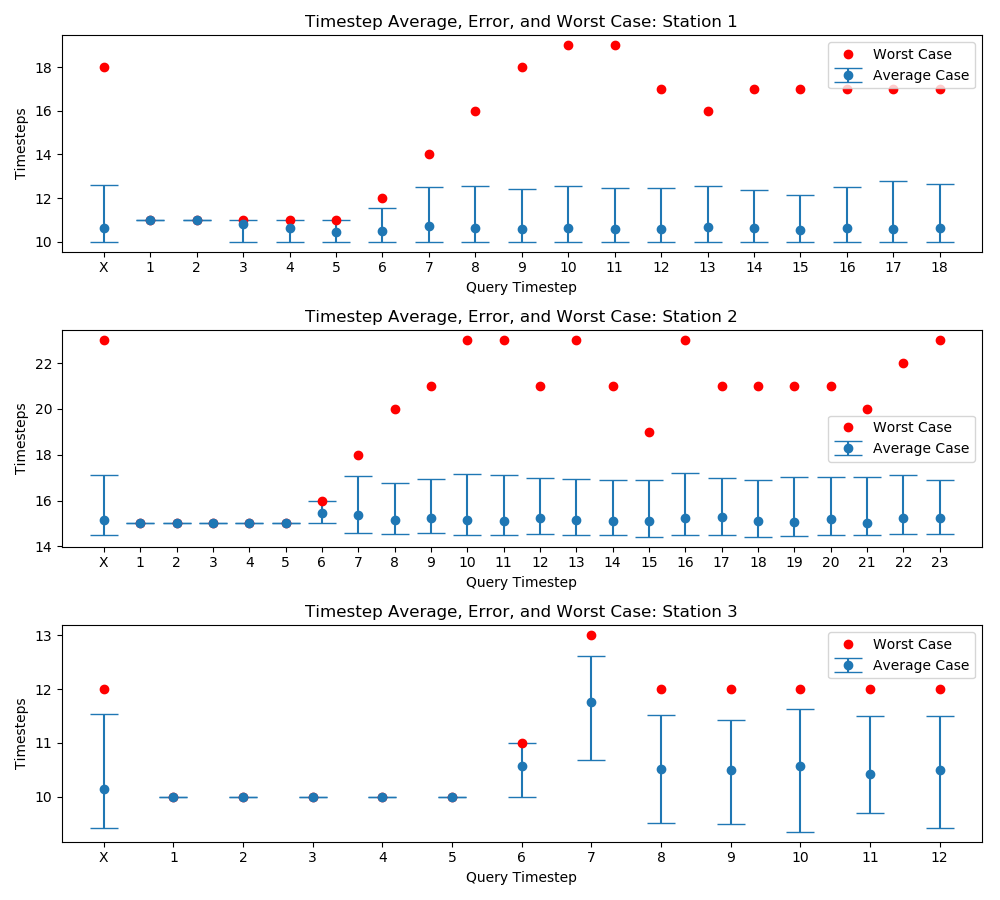
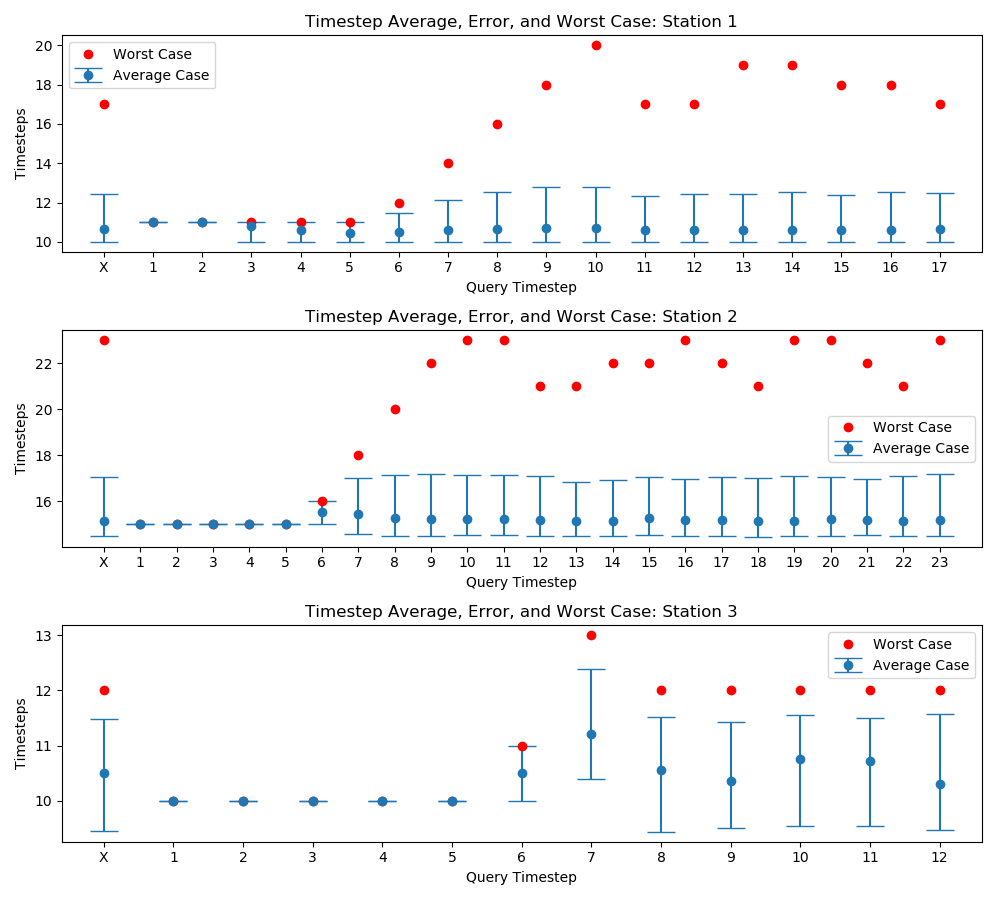
inference bug fix

diff --git a/experiment.py b/experiment.py
@@ -40,6 +40,7 @@ def experiment(grid_size, stn_pos, tools_pos, l_pos, a_pos, l_tp=None, l_path=[]
         print('Adhoc Tool:           ', adhoc.tool)
         print('Adhoc Station Order:  ', adhoc.knowledge.station_order)
         print('Adhoc Source:         ', adhoc.knowledge.source)
+        print('Adhoc Prior/Certainty:', adhoc.inference_engine.prior, adhoc.certainty)
         adhoc_station_status = [status.value for status in adhoc.knowledge.station_work_status]
         print('Adhoc Station Status: ', adhoc_station_status)
         print('\n')
@@ -121,7 +122,7 @@ def get_query_timesteps(grid_size, stn_pos, tools_pos, l_pos, a_pos, l_tp, all_l
 def create_graphs(grid_size, stn_pos_perm, stn_names, tools_pos, l_pos, a_pos, l_tp_perm, num_query=None):
     query_timesteps = []
     for stn_pos, l_tp in zip(stn_pos_perm, l_tp_perm):
-        all_leader_paths = opt_path_perm(stn_pos, l_pos, l_tp.station_order, 5)
+        all_leader_paths = opt_path_perm(stn_pos, l_pos, l_tp.station_order, 10)
         qt = get_query_timesteps(grid_size, stn_pos, tools_pos, l_pos, a_pos, l_tp, all_leader_paths, num_query)
         query_timesteps.append(qt)
 
@@ -204,7 +205,7 @@ stn_names = ['1', '2', '3']
 stn_pos_perm = [[Point2D(7,3), Point2D(7,8), Point2D(3,8)],
                 [Point2D(7,3), Point2D(3,8), Point2D(7,8)],
                 [Point2D(3,8), Point2D(7,8), Point2D(7,3)]]
-tools_pos = [Point2D(3,3)] # tools_pos needs to be an array but only one tool box is supported so far
+tools_pos = [Point2D(2,3)] # tools_pos needs to be an array but only one tool box is supported so far
 
 l_pos = Point2D(5, 0)
 # l_tp = agent.AgentType(len(stn_pos)) # Optional random order of stations to pass to agent_leader()
@@ -214,4 +215,5 @@ a_pos = Point2D(4, 0)
 
 create_graphs(grid_size, stn_pos_perm, stn_names, tools_pos, l_pos, a_pos, l_tp_perm)
 
-# experiment(grid_size, stn_pos_perm[0], tools_pos, l_pos, a_pos, l_tp_perm[0], [gd.Actions.LEFT], [3], debug=True)
+path = [gd.Actions.UP] * 3
+# experiment(grid_size, stn_pos_perm[2], tools_pos, l_pos, a_pos, l_tp_perm[0], path, [], debug=True)

diff --git a/src/agents/agent_adhoc_q.py b/src/agents/agent_adhoc_q.py
@@ -23,6 +23,7 @@ class agent_adhoc(AbstractAgent):
             logging.warning("Init positions out of bounds")
         self.is_adhoc=True
         self.tool = None #Start off with no tool.
+        self.current_target = None        
         self.knowledge = Knowledge()
         self.certainty = False # Set True if only one station has max likelihood. Lets environment know not to allow query.
         self.p_obs = None
@@ -64,10 +65,12 @@ class agent_adhoc(AbstractAgent):
             curr_k_idx = self.knowledge.get_current_job_station_idx()
             #Checking what knowledge we have.
             if (self.knowledge.source[curr_k_idx]==Knowledge.origin.Answer):
-
                 #Then we simply work on the station because we have an answer telling us that that's the station to work on.
                 target_station = self.knowledge.station_order[curr_k_idx]
-
+                #new_prior = np.zeros(self.inference_engine.prior.shape)
+                #new_prior[curr_k_idx]
+                #self.inference_engine.prior = 
+                #self.certainty = True
             elif (self.knowledge.source[curr_k_idx] == None):
                 #which means we just finished a station in the last time-step. This calls for re-initalizing the inference_engine
                 self.tracking_stations = self.get_remaining_stations(obs)

diff --git a/src/agents/adhoc_utils.py b/src/agents/adhoc_utils.py
@@ -29,6 +29,7 @@ class inference_engine():
         self.tracking_stations = copy.deepcopy(tracking_stations)
         self.prior = np.ones(len(self.tracking_stations))
         self.prior/=np.sum(self.prior)
+        self.current_target = None        
 
     def get_modified_obs(self,previous_obs,current_obs):
         """
@@ -98,17 +99,23 @@ class inference_engine():
         """
         mobs = self.get_modified_obs(pobs,cobs)
         ll = self.get_likelihood(mobs)
-        (map_idx,ps) = utils.get_MAP(self.prior,ll)
+        (rand_map_idx,ps) = utils.get_MAP(self.prior,ll)
         assert(np.all(ps.shape==ll.shape))
         self.prior = ps
         
-        maxes = np.where(ps == np.amax(ps))
+        maxes = np.where(ps == np.amax(ps))[0]
+
+        # This stops changing target when already chosen target is still possible (stops thrashing)
+        target_idx = self.current_target
+        if self.current_target not in maxes:
+            target_idx = rand_map_idx
+            self.current_target = rand_map_idx
         
         certainty = False
-        if len(maxes[0]) == 1:
+        if len(maxes) == 1:
             certainty = True
         
-        return self.tracking_stations[map_idx], certainty
+        return self.tracking_stations[target_idx], certainty
 
 
 

diff --git a/experiment2.py b/experiment2.py
@@ -187,7 +187,7 @@ stn_names = ['1', '2', '3']
 stn_pos_perm = [[Point2D(7,3), Point2D(7,8), Point2D(3,8)],
                 [Point2D(7,3), Point2D(3,8), Point2D(7,8)],
                 [Point2D(3,8), Point2D(7,8), Point2D(7,3)]]
-tools_pos = [Point2D(3,3)] # tools_pos needs to be an array but only one tool box is supported so far
+tools_pos = [Point2D(2,3)] # tools_pos needs to be an array but only one tool box is supported so far
 
 l_pos = Point2D(5, 0)
 # l_tp = agent.AgentType(len(stn_pos)) # Optional random order of stations to pass to agent_leader()

diff --git a/experiment3.py b/experiment3.py
@@ -192,7 +192,7 @@ stn_names = ['1', '2', '3']
 stn_pos_perm = [[Point2D(7,3), Point2D(7,8), Point2D(3,8)],
                 [Point2D(7,3), Point2D(3,8), Point2D(7,8)],
                 [Point2D(3,8), Point2D(7,8), Point2D(7,3)]]
-tools_pos = [Point2D(3,3)] # tools_pos needs to be an array but only one tool box is supported so far
+tools_pos = [Point2D(2,3)] # tools_pos needs to be an array but only one tool box is supported so far
 
 l_pos = Point2D(5, 0)
 # l_tp = agent.AgentType(len(stn_pos)) # Optional random order of stations to pass to agent_leader()

diff --git a/src/utils.py b/src/utils.py
@@ -88,8 +88,8 @@ def get_MAP(prior,likelihood):
     # map_idx = np.argmax(ps)
 
     # If there are ties, return random max index
-    maxes = np.where(ps == np.amax(ps))
-    map_idx = np.random.choice(maxes[0])
+    maxes = np.where(ps == np.amax(ps))[0]
+    map_idx = np.random.choice(maxes)
 
     return (map_idx,ps)
 
